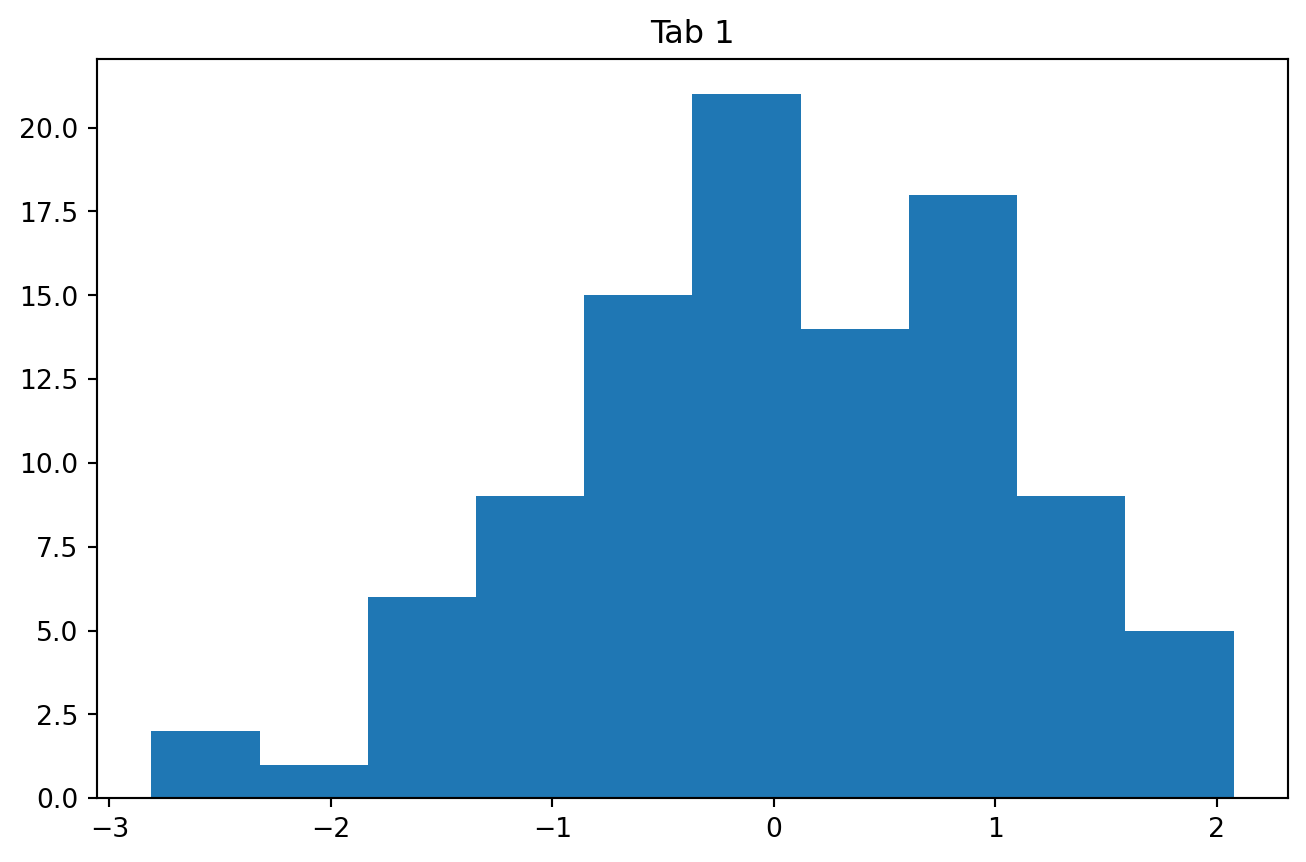
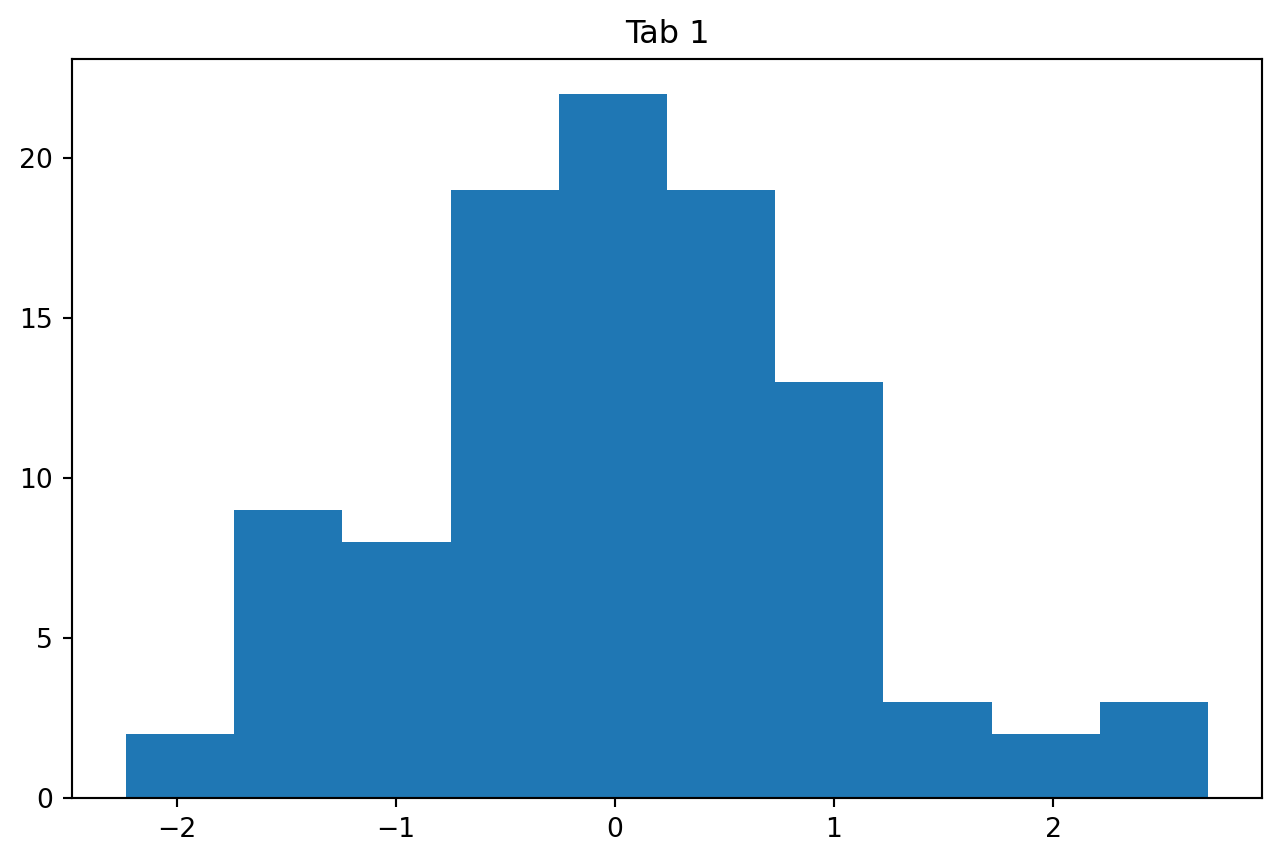
commit

diff --git a/docs/index.html b/docs/index.html
@@ -140,7 +140,7 @@ grid-auto-rows: minmax(0, 1fr);">
 <div class="card cell html-fill-item html-fill-container bslib-card" data-title="Ames Map 집값 지도" data-bslib-card-init="" data-require-bs-caller="card()" data-full-screen="false">
 <div class="card-header"><div class="card-title">Ames Map 집값 지도</div></div>
 <div class="card-body html-fill-item html-fill-container" style="padding: 0px;">
-<div class="cell-output cell-output-display html-fill-item html-fill-container" data-execution_count="14">
+<div class="cell-output cell-output-display html-fill-item html-fill-container" data-execution_count="27">
 
         <iframe width="100%" height="600px" src="maps/ames_house_price_map.html" frameborder="0" allowfullscreen=""></iframe>
         
@@ -216,42 +216,42 @@ grid-auto-rows: minmax(0, 1fr);">
 
 
 <div class="tab-content html-fill-item html-fill-container" data-tabset-id="card-tabset-8"><div class="tab-pane active show html-fill-item html-fill-container" role="tabpanel" id="card-tabset-8-1"><div class="card-body html-fill-item html-fill-container" data-title="Chart 1">
-<div class="cell-output cell-output-display html-fill-item html-fill-container" data-execution_count="15">
-<pre><code>(array([ 3.,  4.,  7., 20., 20., 23., 17.,  1.,  4.,  1.]),
- array([-2.54839744, -2.01565217, -1.48290689, -0.95016162, -0.41741634,
-         0.11532893,  0.6480742 ,  1.18081948,  1.71356475,  2.24631002,
-         2.7790553 ]),
+<div class="cell-output cell-output-display html-fill-item html-fill-container" data-execution_count="28">
+<pre><code>(array([ 6.,  7., 10., 15., 23., 21.,  9.,  4.,  4.,  1.]),
+ array([-2.14722636, -1.68527222, -1.22331807, -0.76136393, -0.29940979,
+         0.16254436,  0.6244985 ,  1.08645264,  1.54840679,  2.01036093,
+         2.47231507]),
  &lt;BarContainer object of 10 artists&gt;)</code></pre>
 </div>
-<div class="cell-output cell-output-display html-fill-item html-fill-container" data-execution_count="15">
+<div class="cell-output cell-output-display html-fill-item html-fill-container" data-execution_count="28">
 <pre><code>Text(0.5, 1.0, 'Tab 1')</code></pre>
 </div>
 <div class="cell-output cell-output-display html-fill-item html-fill-container">
 <img src="index_files/figure-html/cell-3-output-3.png" class="quarto-dashboard-img-contain">
 </div>
 </div></div><div class="tab-pane html-fill-item html-fill-container" role="tabpanel" id="card-tabset-8-2"><div class="card-body html-fill-item html-fill-container" data-title="Chart 2">
-<div class="cell-output cell-output-display html-fill-item html-fill-container" data-execution_count="16">
-<pre><code>(array([ 5.,  2., 14., 13., 19., 14., 16.,  8.,  3.,  6.]),
- array([-2.13368381, -1.68889246, -1.24410111, -0.79930976, -0.35451841,
-         0.09027294,  0.53506428,  0.97985563,  1.42464698,  1.86943833,
-         2.31422968]),
+<div class="cell-output cell-output-display html-fill-item html-fill-container" data-execution_count="29">
+<pre><code>(array([ 1.,  5.,  5., 13., 21., 21., 19.,  4.,  6.,  5.]),
+ array([-2.69766994, -2.17971329, -1.66175663, -1.14379998, -0.62584332,
+        -0.10788667,  0.41006999,  0.92802664,  1.44598329,  1.96393995,
+         2.4818966 ]),
  &lt;BarContainer object of 10 artists&gt;)</code></pre>
 </div>
-<div class="cell-output cell-output-display html-fill-item html-fill-container" data-execution_count="16">
+<div class="cell-output cell-output-display html-fill-item html-fill-container" data-execution_count="29">
 <pre><code>Text(0.5, 1.0, 'Tab 1')</code></pre>
 </div>
 <div class="cell-output cell-output-display html-fill-item html-fill-container">
 <img src="index_files/figure-html/cell-4-output-3.png" class="quarto-dashboard-img-contain">
 </div>
 </div></div><div class="tab-pane html-fill-item html-fill-container" role="tabpanel" id="card-tabset-8-3"><div class="card-body html-fill-item html-fill-container" data-title="Chart 3">
-<div class="cell-output cell-output-display html-fill-item html-fill-container" data-execution_count="17">
-<pre><code>(array([ 2.,  1.,  6.,  9., 15., 21., 14., 18.,  9.,  5.]),
- array([-2.81056939, -2.32182017, -1.83307095, -1.34432173, -0.85557252,
-        -0.3668233 ,  0.12192592,  0.61067513,  1.09942435,  1.58817357,
-         2.07692279]),
+<div class="cell-output cell-output-display html-fill-item html-fill-container" data-execution_count="30">
+<pre><code>(array([ 2.,  9.,  8., 19., 22., 19., 13.,  3.,  2.,  3.]),
+ array([-2.23226731, -1.73835501, -1.24444271, -0.75053042, -0.25661812,
+         0.23729418,  0.73120647,  1.22511877,  1.71903107,  2.21294337,
+         2.70685566]),
  &lt;BarContainer object of 10 artists&gt;)</code></pre>
 </div>
-<div class="cell-output cell-output-display html-fill-item html-fill-container" data-execution_count="17">
+<div class="cell-output cell-output-display html-fill-item html-fill-container" data-execution_count="30">
 <pre><code>Text(0.5, 1.0, 'Tab 1')</code></pre>
 </div>
 <div class="cell-output cell-output-display html-fill-item html-fill-container">
@@ -273,42 +273,42 @@ grid-auto-rows: minmax(0, 1fr);">
 
 
 <div class="tab-content html-fill-item html-fill-container" data-tabset-id="card-tabset-9"><div class="tab-pane active show html-fill-item html-fill-container" role="tabpanel" id="card-tabset-9-1"><div class="card-body html-fill-item html-fill-container" data-title="Chart 1">
-<div class="cell-output cell-output-display html-fill-item html-fill-container" data-execution_count="18">
-<pre><code>(array([ 2., 10.,  9., 18., 15., 24.,  9.,  6.,  6.,  1.]),
- array([-2.10426463, -1.65692086, -1.20957709, -0.76223332, -0.31488956,
-         0.13245421,  0.57979798,  1.02714175,  1.47448552,  1.92182928,
-         2.36917305]),
+<div class="cell-output cell-output-display html-fill-item html-fill-container" data-execution_count="31">
+<pre><code>(array([ 2.,  6.,  5., 19., 21., 18., 13., 12.,  3.,  1.]),
+ array([-2.45525284, -1.96887377, -1.4824947 , -0.99611562, -0.50973655,
+        -0.02335748,  0.4630216 ,  0.94940067,  1.43577975,  1.92215882,
+         2.40853789]),
  &lt;BarContainer object of 10 artists&gt;)</code></pre>
 </div>
-<div class="cell-output cell-output-display html-fill-item html-fill-container" data-execution_count="18">
+<div class="cell-output cell-output-display html-fill-item html-fill-container" data-execution_count="31">
 <pre><code>Text(0.5, 1.0, 'Tab 1')</code></pre>
 </div>
 <div class="cell-output cell-output-display html-fill-item html-fill-container">
 <img src="index_files/figure-html/cell-6-output-3.png" class="quarto-dashboard-img-contain">
 </div>
 </div></div><div class="tab-pane html-fill-item html-fill-container" role="tabpanel" id="card-tabset-9-2"><div class="card-body html-fill-item html-fill-container" data-title="Chart 2">
-<div class="cell-output cell-output-display html-fill-item html-fill-container" data-execution_count="19">
-<pre><code>(array([ 3.,  5.,  4.,  6., 19., 19., 19., 16.,  5.,  4.]),
- array([-2.54024562, -2.08273998, -1.62523433, -1.16772869, -0.71022305,
-        -0.2527174 ,  0.20478824,  0.66229388,  1.11979953,  1.57730517,
-         2.03481081]),
+<div class="cell-output cell-output-display html-fill-item html-fill-container" data-execution_count="32">
+<pre><code>(array([ 2.,  6., 10., 16., 13., 15., 19., 13.,  3.,  3.]),
+ array([-2.25322274, -1.78636779, -1.31951285, -0.8526579 , -0.38580295,
+         0.08105199,  0.54790694,  1.01476188,  1.48161683,  1.94847177,
+         2.41532672]),
  &lt;BarContainer object of 10 artists&gt;)</code></pre>
 </div>
-<div class="cell-output cell-output-display html-fill-item html-fill-container" data-execution_count="19">
+<div class="cell-output cell-output-display html-fill-item html-fill-container" data-execution_count="32">
 <pre><code>Text(0.5, 1.0, 'Tab 1')</code></pre>
 </div>
 <div class="cell-output cell-output-display html-fill-item html-fill-container">
 <img src="index_files/figure-html/cell-7-output-3.png" class="quarto-dashboard-img-contain">
 </div>
 </div></div><div class="tab-pane html-fill-item html-fill-container" role="tabpanel" id="card-tabset-9-3"><div class="card-body html-fill-item html-fill-container" data-title="Chart 3">
-<div class="cell-output cell-output-display html-fill-item html-fill-container" data-execution_count="20">
-<pre><code>(array([ 1.,  3.,  3., 14., 21., 24., 14., 10.,  7.,  3.]),
- array([-2.95022674, -2.39698187, -1.84373699, -1.29049211, -0.73724724,
-        -0.18400236,  0.36924251,  0.92248739,  1.47573227,  2.02897714,
-         2.58222202]),
+<div class="cell-output cell-output-display html-fill-item html-fill-container" data-execution_count="33">
+<pre><code>(array([ 3., 11.,  8., 19., 20., 19., 12.,  6.,  0.,  2.]),
+ array([-2.46757353, -1.93183358, -1.39609363, -0.86035368, -0.32461373,
+         0.21112621,  0.74686616,  1.28260611,  1.81834606,  2.35408601,
+         2.88982596]),
  &lt;BarContainer object of 10 artists&gt;)</code></pre>
 </div>
-<div class="cell-output cell-output-display html-fill-item html-fill-container" data-execution_count="20">
+<div class="cell-output cell-output-display html-fill-item html-fill-container" data-execution_count="33">
 <pre><code>Text(0.5, 1.0, 'Tab 1')</code></pre>
 </div>
 <div class="cell-output cell-output-display html-fill-item html-fill-container">
@@ -335,42 +335,42 @@ grid-auto-rows: minmax(0, 1fr);">
 
 
 <div class="tab-content html-fill-item html-fill-container" data-tabset-id="card-tabset-10"><div class="tab-pane active show html-fill-item html-fill-container" role="tabpanel" id="card-tabset-10-1"><div class="card-body html-fill-item html-fill-container" data-title="Chart 1">
-<div class="cell-output cell-output-display html-fill-item html-fill-container" data-execution_count="21">
-<pre><code>(array([ 4.,  3., 10., 19., 15., 14., 15., 10.,  8.,  2.]),
- array([-2.43340165, -1.99566493, -1.55792821, -1.12019149, -0.68245476,
-        -0.24471804,  0.19301868,  0.6307554 ,  1.06849212,  1.50622884,
-         1.94396557]),
+<div class="cell-output cell-output-display html-fill-item html-fill-container" data-execution_count="34">
+<pre><code>(array([ 3.,  3.,  9., 15., 16., 17., 19.,  9.,  6.,  3.]),
+ array([-2.79554829, -2.26314851, -1.73074873, -1.19834895, -0.66594916,
+        -0.13354938,  0.3988504 ,  0.93125018,  1.46364996,  1.99604974,
+         2.52844953]),
  &lt;BarContainer object of 10 artists&gt;)</code></pre>
 </div>
-<div class="cell-output cell-output-display html-fill-item html-fill-container" data-execution_count="21">
+<div class="cell-output cell-output-display html-fill-item html-fill-container" data-execution_count="34">
 <pre><code>Text(0.5, 1.0, 'Tab 1')</code></pre>
 </div>
 <div class="cell-output cell-output-display html-fill-item html-fill-container">
 <img src="index_files/figure-html/cell-9-output-3.png" class="quarto-dashboard-img-contain">
 </div>
 </div></div><div class="tab-pane html-fill-item html-fill-container" role="tabpanel" id="card-tabset-10-2"><div class="card-body html-fill-item html-fill-container" data-title="Chart 2">
-<div class="cell-output cell-output-display html-fill-item html-fill-container" data-execution_count="22">
-<pre><code>(array([ 4.,  3.,  3., 13., 18., 21., 18.,  8.,  9.,  3.]),
- array([-2.29429402, -1.83468086, -1.3750677 , -0.91545454, -0.45584138,
-         0.00377177,  0.46338493,  0.92299809,  1.38261125,  1.84222441,
-         2.30183756]),
+<div class="cell-output cell-output-display html-fill-item html-fill-container" data-execution_count="35">
+<pre><code>(array([ 5., 15., 11., 14., 26., 16.,  7.,  4.,  1.,  1.]),
+ array([-1.763649  , -1.3169777 , -0.87030639, -0.42363508,  0.02303623,
+         0.46970754,  0.91637885,  1.36305015,  1.80972146,  2.25639277,
+         2.70306408]),
  &lt;BarContainer object of 10 artists&gt;)</code></pre>
 </div>
-<div class="cell-output cell-output-display html-fill-item html-fill-container" data-execution_count="22">
+<div class="cell-output cell-output-display html-fill-item html-fill-container" data-execution_count="35">
 <pre><code>Text(0.5, 1.0, 'Tab 1')</code></pre>
 </div>
 <div class="cell-output cell-output-display html-fill-item html-fill-container">
 <img src="index_files/figure-html/cell-10-output-3.png" class="quarto-dashboard-img-contain">
 </div>
 </div></div><div class="tab-pane html-fill-item html-fill-container" role="tabpanel" id="card-tabset-10-3"><div class="card-body html-fill-item html-fill-container" data-title="Chart 3">
-<div class="cell-output cell-output-display html-fill-item html-fill-container" data-execution_count="23">
-<pre><code>(array([ 3.,  3.,  8., 16., 16., 22., 17., 10.,  3.,  2.]),
- array([-3.03948285, -2.4727884 , -1.90609395, -1.3393995 , -0.77270505,
-        -0.2060106 ,  0.36068386,  0.92737831,  1.49407276,  2.06076721,
-         2.62746166]),
+<div class="cell-output cell-output-display html-fill-item html-fill-container" data-execution_count="36">
+<pre><code>(array([ 1.,  3.,  9., 19., 29., 20., 11.,  5.,  2.,  1.]),
+ array([-3.00995431, -2.38865034, -1.76734636, -1.14604239, -0.52473841,
+         0.09656556,  0.71786954,  1.33917351,  1.96047748,  2.58178146,
+         3.20308543]),
  &lt;BarContainer object of 10 artists&gt;)</code></pre>
 </div>
-<div class="cell-output cell-output-display html-fill-item html-fill-container" data-execution_count="23">
+<div class="cell-output cell-output-display html-fill-item html-fill-container" data-execution_count="36">
 <pre><code>Text(0.5, 1.0, 'Tab 1')</code></pre>
 </div>
 <div class="cell-output cell-output-display html-fill-item html-fill-container">
@@ -392,42 +392,42 @@ grid-auto-rows: minmax(0, 1fr);">
 
 
 <div class="tab-content html-fill-item html-fill-container" data-tabset-id="card-tabset-11"><div class="tab-pane active show html-fill-item html-fill-container" role="tabpanel" id="card-tabset-11-1"><div class="card-body html-fill-item html-fill-container" data-title="Chart 1">
-<div class="cell-output cell-output-display html-fill-item html-fill-container" data-execution_count="24">
-<pre><code>(array([ 7.,  9., 13., 18., 17., 12., 14.,  7.,  1.,  2.]),
- array([-1.86957498, -1.41084291, -0.95211083, -0.49337876, -0.03464668,
-         0.42408539,  0.88281747,  1.34154954,  1.80028162,  2.25901369,
-         2.71774577]),
+<div class="cell-output cell-output-display html-fill-item html-fill-container" data-execution_count="37">
+<pre><code>(array([ 3.,  4., 16., 22., 25., 15., 10.,  3.,  1.,  1.]),
+ array([-2.40957479, -1.83567421, -1.26177364, -0.68787306, -0.11397248,
+         0.4599281 ,  1.03382867,  1.60772925,  2.18162983,  2.75553041,
+         3.32943098]),
  &lt;BarContainer object of 10 artists&gt;)</code></pre>
 </div>
-<div class="cell-output cell-output-display html-fill-item html-fill-container" data-execution_count="24">
+<div class="cell-output cell-output-display html-fill-item html-fill-container" data-execution_count="37">
 <pre><code>Text(0.5, 1.0, 'Tab 1')</code></pre>
 </div>
 <div class="cell-output cell-output-display html-fill-item html-fill-container">
 <img src="index_files/figure-html/cell-12-output-3.png" class="quarto-dashboard-img-contain">
 </div>
 </div></div><div class="tab-pane html-fill-item html-fill-container" role="tabpanel" id="card-tabset-11-2"><div class="card-body html-fill-item html-fill-container" data-title="Chart 2">
-<div class="cell-output cell-output-display html-fill-item html-fill-container" data-execution_count="25">
-<pre><code>(array([ 6.,  4.,  9., 13., 20., 18.,  8.,  9.,  8.,  5.]),
- array([-2.29052664, -1.83619026, -1.38185388, -0.9275175 , -0.47318112,
-        -0.01884474,  0.43549164,  0.88982802,  1.3441644 ,  1.79850078,
-         2.25283716]),
+<div class="cell-output cell-output-display html-fill-item html-fill-container" data-execution_count="38">
+<pre><code>(array([ 5., 11., 18., 10., 25., 13.,  9.,  5.,  3.,  1.]),
+ array([-1.97344062, -1.50177926, -1.0301179 , -0.55845653, -0.08679517,
+         0.3848662 ,  0.85652756,  1.32818893,  1.79985029,  2.27151165,
+         2.74317302]),
  &lt;BarContainer object of 10 artists&gt;)</code></pre>
 </div>
-<div class="cell-output cell-output-display html-fill-item html-fill-container" data-execution_count="25">
+<div class="cell-output cell-output-display html-fill-item html-fill-container" data-execution_count="38">
 <pre><code>Text(0.5, 1.0, 'Tab 1')</code></pre>
 </div>
 <div class="cell-output cell-output-display html-fill-item html-fill-container">
 <img src="index_files/figure-html/cell-13-output-3.png" class="quarto-dashboard-img-contain">
 </div>
 </div></div><div class="tab-pane html-fill-item html-fill-container" role="tabpanel" id="card-tabset-11-3"><div class="card-body html-fill-item html-fill-container" data-title="Chart 3">
-<div class="cell-output cell-output-display html-fill-item html-fill-container" data-execution_count="26">
-<pre><code>(array([ 2.,  6.,  6., 19., 13., 18., 13., 12.,  8.,  3.]),
- array([-2.45781945, -2.00666718, -1.55551491, -1.10436263, -0.65321036,
-        -0.20205809,  0.24909419,  0.70024646,  1.15139874,  1.60255101,
-         2.05370328]),
+<div class="cell-output cell-output-display html-fill-item html-fill-container" data-execution_count="39">
+<pre><code>(array([ 5., 12., 16., 11., 25., 14.,  5.,  5.,  5.,  2.]),
+ array([-2.05312191, -1.57387295, -1.09462399, -0.61537503, -0.13612607,
+         0.34312289,  0.82237185,  1.30162081,  1.78086977,  2.26011873,
+         2.73936769]),
  &lt;BarContainer object of 10 artists&gt;)</code></pre>
 </div>
-<div class="cell-output cell-output-display html-fill-item html-fill-container" data-execution_count="26">
+<div class="cell-output cell-output-display html-fill-item html-fill-container" data-execution_count="39">
 <pre><code>Text(0.5, 1.0, 'Tab 1')</code></pre>
 </div>
 <div class="cell-output cell-output-display html-fill-item html-fill-container">
